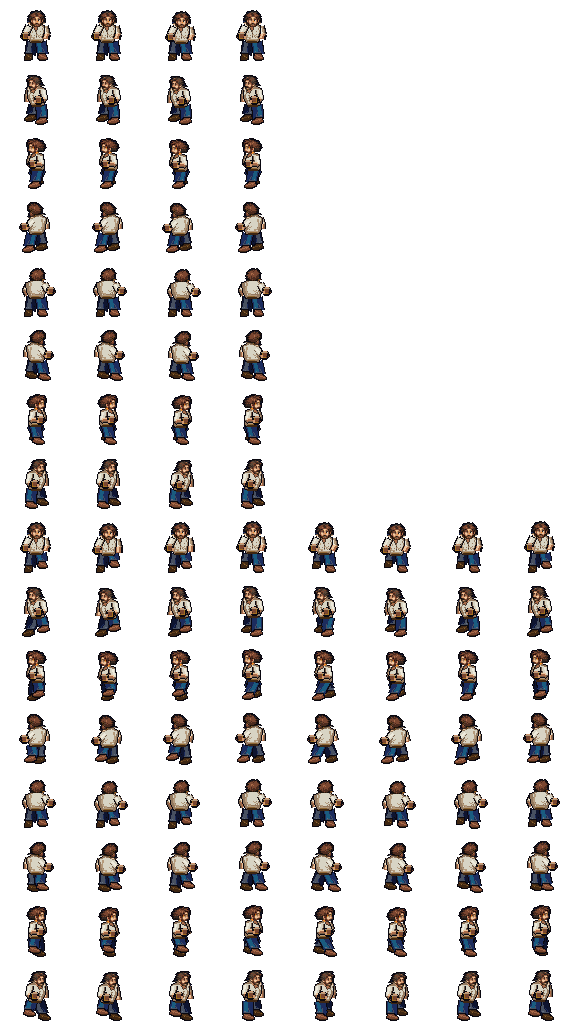
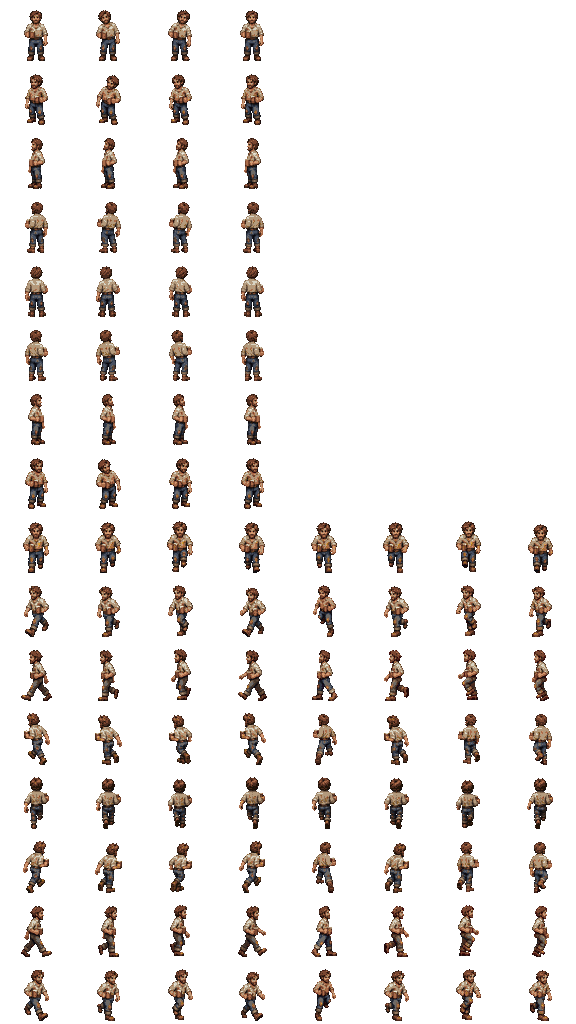
The drinker redrawn: art-wanted 65's drinker, the art desk's illustrated redraw on lime green, cut
folkman_drinker_p1 and folkwoman_drinker_p1 from ART-WANTED-73-DRINKER-ILLUSTRATED-REDRAW
(sorted to deep16/_src/folkcostumes/2026-11-15-ART-WANTED-73-DRINKER-REDRAW/): 34 image-generated pages
on a flat #00FF00 ground, about 12x game size, each frame placed by its FRAME-MAP.csv crop, size and
cell position (the art desk's registration, ground 36,60; the man 51 px, the woman 48).

tools/folk-costume-sheet.py takes a `lime` piece: the art desk's own recipe (its key, the largest
piece, Lanczos down, alpha at 123, the nearest of the 64 in Lab) with a green despill before the
reduction (97 game pixels on the orc and moss ramps without it, 1 with it), red and fire kept to the
crimson (the woman's shawl; the hair, mug, boots and cheeks went red), and a pale cloth kept off skin
and gold (the man's shirt snapped to skin whole and read shirtless). Idle 4, walk 8, eight facings.
Every other costume rebuilt byte for byte. mode=folk1115 22 ok, mode=parade1115 ok.

Held for Griz's eye (Griz: "they just switched to limegreen background - do an opus cutter for the
latest in fresh to see if its okay"); the old drinker stands on his "Keep the costumes" until then.

diff --git a/deep16/data/sprites.js b/deep16/data/sprites.js
@@ -5206,7 +5206,7 @@
 "source": "drawn by the art desk (ART-WANTED-78 CREW-BOSS-WORLD, 11-15: five views, Idle 4 and Walk 8, native 4x on folkman_p1's cell), cut by tools/folk-costume-sheet.py (11-15)"
 },
 "folkman_drinker_p1": {
-"image": "art/folkman_drinker_p1.png?v=af35534912",
+"image": "art/folkman_drinker_p1.png?v=7ccff93a31",
 "fw": 72,
 "fh": 64,
 "ax": 36,
@@ -5232,7 +5232,7 @@
 "fps": 12
 }
 },
-"source": "drawn by the art desk (ART-WANTED-73 DRINKER, 11-15: five views, Idle 4 and Walk 8, native 4x on folkman_p1's cell), cut by tools/folk-costume-sheet.py (11-15)"
+"source": "drawn by the art desk (ART-WANTED-73 DRINKER ILLUSTRATED REDRAW, 11-15: five views, Idle 4 and Walk 8, image-generated on lime green), cut by tools/folk-costume-sheet.py (11-15)"
 },
 "folkman_gambler_p1": {
 "image": "art/folkman_gambler_p1.png?v=4cda7405ba",
@@ -5525,7 +5525,7 @@
 "source": "drawn by the art desk (ART-WANTED-78 CREW-BOSS-WORLD, 11-15: five views, Idle 4 and Walk 8, native 4x on folkman_p1's cell), cut by tools/folk-costume-sheet.py (11-15)"
 },
 "folkwoman_drinker_p1": {
-"image": "art/folkwoman_drinker_p1.png?v=6300b5c4d2",
+"image": "art/folkwoman_drinker_p1.png?v=d4e1b125cc",
 "fw": 72,
 "fh": 64,
 "ax": 36,
@@ -5551,7 +5551,7 @@
 "fps": 12
 }
 },
-"source": "drawn by the art desk (ART-WANTED-73 DRINKER, 11-15: five views, Idle 4 and Walk 8, native 4x on folkman_p1's cell), cut by tools/folk-costume-sheet.py (11-15)"
+"source": "drawn by the art desk (ART-WANTED-73 DRINKER ILLUSTRATED REDRAW, 11-15: five views, Idle 4 and Walk 8, image-generated on lime green), cut by tools/folk-costume-sheet.py (11-15)"
 },
 "folkwoman_gambler_p1": {
 "image": "art/folkwoman_gambler_p1.png?v=0758e68a8b",

diff --git a/deep16/index.html b/deep16/index.html
@@ -77,7 +77,7 @@
 <script src="js/art.js?v=e1ce4cf012"></script>
 <script src="data/cavern.js?v=647c1a184a"></script>
 <script src="data/maps.js?v=bef56a5de9"></script>
-<script src="data/sprites.js?v=eeee39ecf8"></script>
+<script src="data/sprites.js?v=48b969098d"></script>
 <script src="js/sprites.js?v=ac7a3234c4"></script>
 <script src="js/save.js?v=6f0bef3cf5"></script>
 <script src="data/spells.js?v=ae0037fb81"></script>

diff --git a/tools/folk-costume-sheet.py b/tools/folk-costume-sheet.py
@@ -16,11 +16,25 @@ stand on 60 in every view); not the shaft hand's (its notes: a forward boot in S
 Facings: the five views as drawn, SW, W and NW the mirrors of SE, E and NE (RULED 10-14). Rows idle and walk at folkman_p1's fps.
 No drawn looping effect in these (the light crew's moss on the gloves is a still colour; the shaft hand's candle is unlit; RULED 11-15,
 drawn smoke and breath to the engine).
+
+The REDRAWS (`lime`, 11-15 night; the redraw cutter seat on Griz's "they just switched to limegreen background - do an opus cutter for the
+latest in fresh to see if its okay"): the 11-15 batch was drawn by code and is being redrawn with the image generator, a whole illustrated
+figure a pose on a flat #00FF00 ground, about 12x the game's size. Their FRAME-MAP.csv gives each frame's crop (`crop_left/top`, right and
+bottom exclusive), its size at 1x (`resize_w/h`) and its place in the cell (`native_x/y`), the art desk's own registration on the town
+figures' 48/51 px. Cut by the art desk's own recipe (its CUTTER-NOTES.md: the key G > 65 and G > 1.27 max(R, B) + 9, the largest
+8-connected piece, Lanczos down, alpha at 123, the nearest of the 64 in Lab), with two of the house's: the green DESPILLED on the figure
+before the reduction (green no higher than the larger of red and blue -- the key leaves a one-pixel halo at the source's edge, which
+otherwise lands ~100 pixels a sheet on the orc and moss ramps), and red and fire only where the colour is crimson (hue 330 to 360,
+saturation over 0.25: the woman's shawl) -- else the warm browns of hair, mug, boots and flushed cheeks snap to red, as the art desk's own
+1x shows (the 10-29 cutters' "avoid red and fire", kept off the one cloth that is red); and a pale cloth (saturation under 0.55: the man's
+work shirt, the woman's apron and sleeves) kept off skin and gold as well -- else the shirt snaps to the skin ramp whole and he reads
+shirtless (the cutscene cutter's 10-29 "a cream cloth at the skin's hue ... kept out by the band"). Faces and hands run 0.6 and up.
 """
 import os, sys, json, csv
 import importlib.util
 import numpy as np
 from PIL import Image
+from scipy import ndimage
 
 ROOT = os.path.dirname(os.path.dirname(os.path.abspath(__file__)))
 def _load(name):
@@ -43,8 +57,9 @@ PIECES = {
                   navy=(16, 22, 52), stand=False),   # (its E ear in the fire ramp is the townsfolk's own head, folkman_p1's and folkwoman_p1's since 10-27, kept)
     'scraper': dict(folder='2026-11-15-ART-WANTED-72-GUANO-SCRAPER', name='ART-WANTED-72 GUANO-SCRAPER, 11-15: five views, Idle 4 and Walk 8, native 4x on folkman_p1\'s cell',
                     navy=(17, 24, 45), stand=False),
-    'drinker': dict(folder='2026-11-15-ART-WANTED-73-DRINKER', name='ART-WANTED-73 DRINKER, 11-15: five views, Idle 4 and Walk 8, native 4x on folkman_p1\'s cell',
-                    navy=(17, 24, 45), stand=False),
+    # (the drinker's first, code-drawn pages -- folder 2026-11-15-ART-WANTED-73-DRINKER, native 4x, navy (17, 24, 45) -- replaced by the redraw)
+    'drinker': dict(folder='2026-11-15-ART-WANTED-73-DRINKER-REDRAW', name='ART-WANTED-73 DRINKER ILLUSTRATED REDRAW, 11-15: five views, Idle 4 and Walk 8, image-generated on lime green',
+                    lime=True, stand=False),
     'gambler': dict(folder='2026-11-15-ART-WANTED-74-GAMBLER', name='ART-WANTED-74 GAMBLER, 11-15: five views, Idle 4 and Walk 8, native 4x on folkman_p1\'s cell',
                     navy=(17, 24, 45), stand=False),
     'barkeep': dict(folder='2026-11-15-ART-WANTED-75-BARKEEP', name='ART-WANTED-75 BARKEEP, 11-15: five views, Idle 4 and Walk 8, native 4x on folkman_p1\'s cell',
@@ -92,6 +107,55 @@ def frames_of(d):
     return out
 
 
+LIME_REDBAND = (330, 360, 0.25)        # (red and fire only on a crimson: hue from, to, and the least saturation)
+LIME_CLOTH = 0.55                      # (under this saturation a pale cloth, kept off skin and gold too)
+
+
+def lime_frame(a, rw, rh):
+    """one illustrated pose on the lime ground -> RGBA at rw x rh, every colour one of the 64 (the module's head: the art desk's recipe,
+    despilled, red kept to the crimson)"""
+    c = a.astype(np.int32)
+    keyed = (c[..., 1] > 65) & (c[..., 1] > 1.27 * np.maximum(c[..., 0], c[..., 2]) + 9)
+    lab, n = ndimage.label(~keyed, structure=np.ones((3, 3)))
+    if not n:
+        raise SystemExit('no figure in the window')
+    m = lab == 1 + int(np.argmax(ndimage.sum(~keyed, lab, range(1, n + 1))))
+    cap = np.maximum(c[..., 0], c[..., 2])
+    c[..., 1] = np.where(m & (c[..., 1] > cap), cap, c[..., 1])             # (the despill)
+    rgba = np.dstack([c.astype(np.uint8), (m * 255).astype(np.uint8)])
+    r = np.asarray(Image.fromarray(rgba, 'RGBA').resize((rw, rh), Image.LANCZOS)).astype(np.float32)
+    rgb, solid = r[..., :3] / 255, r[..., 3] >= 123
+    mx, mn = rgb.max(-1), rgb.min(-1)
+    d = np.maximum(mx - mn, 1e-6)
+    hue = np.where(mx == rgb[..., 0], ((rgb[..., 1] - rgb[..., 2]) / d) % 6,
+                   np.where(mx == rgb[..., 1], (rgb[..., 2] - rgb[..., 0]) / d + 2, (rgb[..., 0] - rgb[..., 1]) / d + 4)) * 60
+    lo, hi, smin = LIME_REDBAND
+    sat = (mx - mn) / np.maximum(mx, 1e-6)
+    crim = (hue >= lo) & (hue < hi) & (sat > smin)
+    sn = np.where(crim[..., None], pix.snap(rgb),
+                  np.where((sat < LIME_CLOTH)[..., None], pix.snap(rgb, ['red', 'fire', 'skin', 'gold']), pix.snap(rgb, ['red', 'fire'])))
+    out = np.zeros((rh, rw, 4), np.uint8)
+    out[solid, :3] = sn[solid]; out[solid, 3] = 255
+    return out
+
+
+def lime_frames(d, fw, fh):
+    """a redraw's frames -> [(sheet, view, row, index, RGBA cell)], placed where the art desk's map says"""
+    pages, out = {}, []
+    for r in csv.DictReader(open(os.path.join(d, 'FRAME-MAP.csv'), encoding='utf-8')):
+        p = r['source']
+        if p not in pages:
+            pages[p] = np.asarray(Image.open(os.path.join(d, p)).convert('RGB'))
+        x0, y0, x1, y1 = (int(r[k]) for k in ('crop_left', 'crop_top', 'crop_right_exclusive', 'crop_bottom_exclusive'))
+        rw, rh, nx, ny = (int(r[k]) for k in ('resize_w', 'resize_h', 'native_x', 'native_y'))
+        if nx < 0 or ny < 0 or nx + rw > fw or ny + rh > fh:
+            raise SystemExit('%s %s %s: placed outside the cell' % (r['target'], r['facing'], r['frame']))
+        cell = np.zeros((fh, fw, 4), np.uint8)
+        cell[ny:ny + rh, nx:nx + rw] = lime_frame(pages[p][y0:y1, x0:x1], rw, rh)
+        out.append((r['target'], r['facing'], r['action'], int(r['frame']) - 1, cell))
+    return out
+
+
 def cut(costume):
     """-> {sheet name: {row: [8 facings of [RGBA frames]]}}. A fight piece says its own `cell` (fw, fh, ax, ay), its `targets` {the art
     desk's target: the sheet} and its `rows` [(the art desk's row, the sheet's row, frames, fps, release)]; a costume takes folkman_p1's"""
@@ -101,7 +165,15 @@ def cut(costume):
     rowmap = {r[0]: (r[1], r[2]) for r in P['rows']} if P.get('rows') else {an: (an, n) for an, n in COUNT.items()}
     d = os.path.join(AD.src_dir(ROOT), 'folkcostumes', P['folder'])
     pal, got, pages = palette(), {}, {}
-    for name, v, an, idx, page, (x, y, w, h) in frames_of(d):
+    if P.get('lime'):
+        for name, v, an, idx, fr in lime_frames(d, fw, fh):
+            if name not in names or an not in rowmap:
+                raise SystemExit('a frame for %s %s, not %s' % (name, an, costume))
+            off = {tuple(c) for c in fr[fr[..., 3] > 0][:, :3]} - pal
+            if off:
+                raise SystemExit('%s %s %s %d: %d colours off the 64' % (name, v, an, idx + 1, len(off)))
+            got.setdefault(names[name], {}).setdefault(v, {}).setdefault(rowmap[an][0], {})[idx] = fr
+    for name, v, an, idx, page, (x, y, w, h) in ([] if P.get('lime') else frames_of(d)):
         if name not in names:
             raise SystemExit('%s: a frame for %s, not %s' % (page, name, costume))
         if an not in rowmap:
